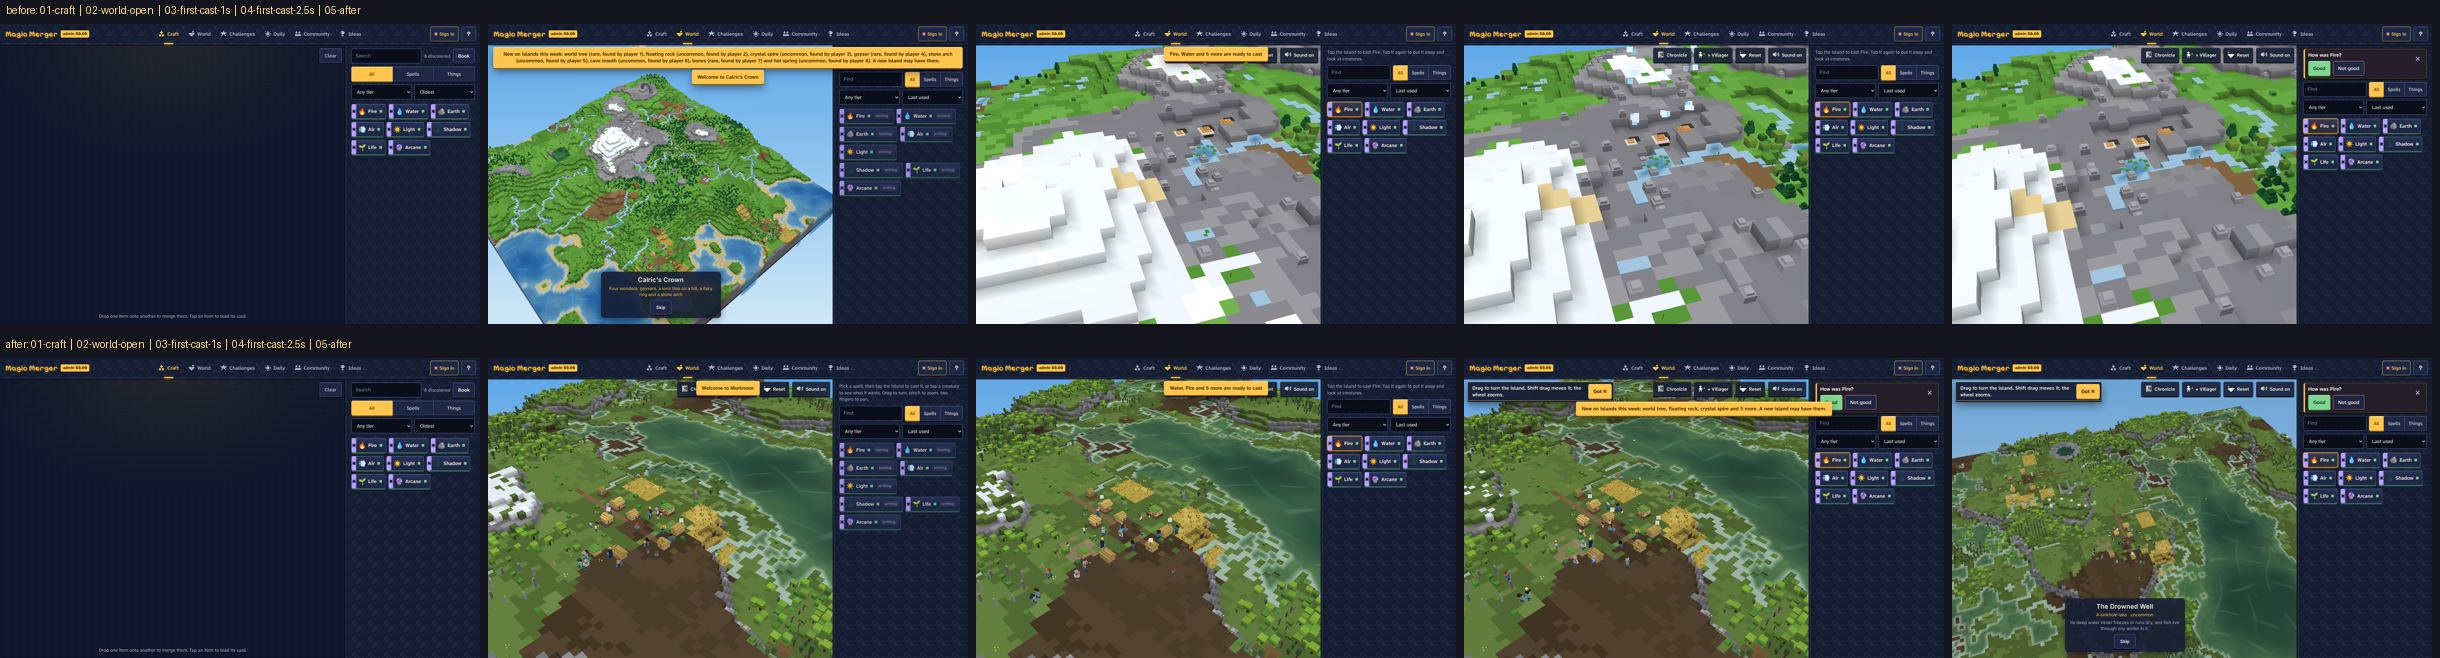
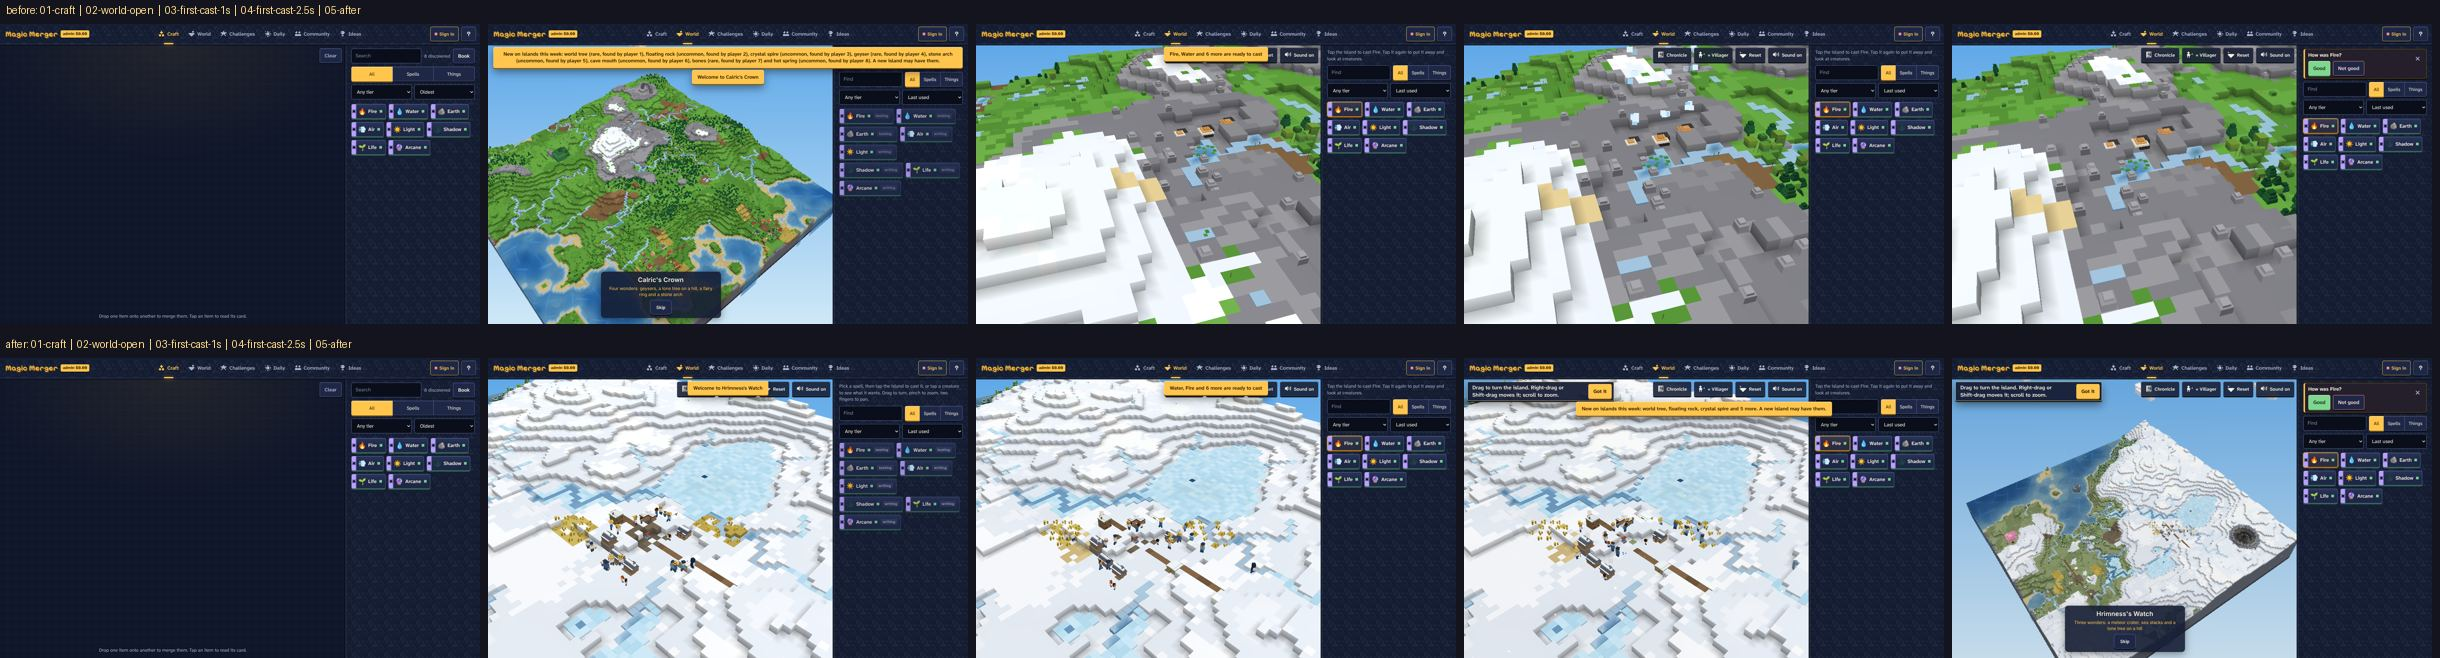
Review fixes: the tour returns facing the same way, a tap on its card ends it; the hint below the World's buttons, read once, closes itself; Craft folds under 10 items
Found by: ai (playtester and ux-designer agents)

Claude-Session: https://claude.ai/code/session_01NxvtAn6domQt8UtxktyKik

Changed region(s): [[0.5918, 0.5775, 0.9656, 1.0], [0.3738, 0.5775, 0.5607, 1.0], [0.1869, 0.5775, 0.3426, 1.0]]

diff --git a/src/firstcast.ts b/src/firstcast.ts
@@ -49,14 +49,19 @@ function inSight(frame: HTMLIFrameElement, x: number, y: number): boolean {
 const HINT_KEY = "magic-merger.hint.move";
 const HINT_AFTER_MS = 3000;
 const NEWS_AFTER_MS = 4500;
+// Shown this long, the hint counts as read; it closes itself a little later.
+const HINT_READ_MS = 8000;
+const HINT_CLOSE_MS = 12000;
 
 // What waits for the first cast of this visit to land and be held for three
-// seconds: one line on how to move the island (shown once per browser), then
-// what the World had to say (the week's new wonders).
+// seconds: one line on how to move the island (until it was read once in
+// this browser), then what the World had to say (the week's new wonders).
 export class FirstCastGuide {
   private landed = false;
   private waiting: (() => void)[] = [];
   private hint: HTMLElement | null = null;
+  private timers: number[] = [];
+  private place: (() => void) | null = null;
 
   afterFirstCast(say: () => void): void {
     if (this.landed) say();
@@ -73,30 +78,63 @@ export class FirstCastGuide {
   }
 
   private showHint(stage: HTMLElement): void {
-    if (readSeen() || !stage.isConnected || !stage.getClientRects().length) return;
-    writeSeen();
+    if (this.hint || readSeen() || !stage.isConnected || !stage.getClientRects().length) return;
     const touch = window.matchMedia?.("(pointer: coarse)").matches ?? false;
     const box = document.createElement("div");
     box.className = "move-hint";
     box.setAttribute("role", "status");
     const text = document.createElement("p");
     text.textContent = touch
-      ? "One finger turns the island. Two fingers move it; pinch to zoom."
-      : "Drag to turn the island. Shift drag moves it; the wheel zooms.";
+      ? "Drag to turn the island. Drag with two fingers to move it; pinch to zoom."
+      : "Drag to turn the island. Right\u2011drag or Shift\u2011drag moves it; scroll to zoom.";
     const ok = document.createElement("button");
     ok.type = "button";
     ok.textContent = "Got it";
-    ok.addEventListener("click", () => this.hideHint());
+    ok.addEventListener("click", () => {
+      writeSeen();
+      this.hideHint();
+    });
     box.append(text, ok);
     stage.append(box);
     this.hint = box;
-    setToastFloor("hint", box.getBoundingClientRect().bottom);
+    // Below the World's buttons where they make a row along the top of the
+    // island (a laptop with a mouse); beside the rail on a phone. Measured
+    // again when the window changes, as when a Fold opens.
+    this.place = () => {
+      const top = stage.getBoundingClientRect().top;
+      box.style.top = "";
+      const hint = box.getBoundingClientRect();
+      let below = 0;
+      for (const b of document.querySelectorAll<HTMLElement>(".world-tools button, .world-tools select")) {
+        const r = b.getBoundingClientRect();
+        if (r.width && r.top < hint.bottom && r.bottom > hint.top && r.left < hint.right && r.right > hint.left) below = Math.max(below, r.bottom);
+      }
+      if (below) box.style.top = `${Math.round(below - top + 8)}px`;
+      setToastFloor("hint", box.getBoundingClientRect().bottom);
+    };
+    this.place();
+    window.addEventListener("resize", this.place);
+    this.timers.push(
+      window.setTimeout(writeSeen, HINT_READ_MS),
+      window.setTimeout(() => this.hideHint(), HINT_CLOSE_MS),
+    );
   }
 
+  // Closed by the player, by the inspect card or by leaving the World. Taken
+  // away before it could be read, it comes back after the next cast.
   hideHint(): void {
-    this.hint?.remove();
+    if (!this.hint) return;
+    for (const t of this.timers.splice(0)) clearTimeout(t);
+    if (this.place) window.removeEventListener("resize", this.place);
+    this.place = null;
+    this.hint.remove();
     this.hint = null;
     setToastFloor("hint", 0);
+  }
+
+  // A cast after the hint was taken away unread brings it back once.
+  again(stage: HTMLElement): void {
+    if (this.landed && !this.hint && !readSeen()) window.setTimeout(() => this.showHint(stage), HINT_AFTER_MS);
   }
 }
 

diff --git a/src/craft.ts b/src/craft.ts
@@ -43,8 +43,8 @@ export function chipElement(element: GameElement, tag: "div" | "button" = "div")
 const sound = new CraftSound();
 
 // Below this many items the Craft list folds its search and filters away on
-// a narrow screen (2026-11-11).
-const FEW_ITEMS = 20;
+// a narrow screen (2026-11-11): 10 fit at 344 wide without them.
+const FEW_ITEMS = 10;
 
 // The Craft tab: a board where chips are dropped onto each other, and the
 // inventory of everything discovered so far.
@@ -53,6 +53,7 @@ export class Craft {
   // Chips waiting for a merge answer cannot be touched.
   private busy = new Set<number>();
   private hovered: HTMLElement | null = null;
+  private filtersUsed = false;
   private tappedChip: number | null = null;
   // Called when this player finds something they did not have yet.
   // writing: the Worker started its program at the merge (4.2).
@@ -114,10 +115,11 @@ export class Craft {
       (d) => elementKey(d.element.name),
     );
     this.count.textContent = shown.length === all.length ? `${all.length} discovered` : `${shown.length} of ${all.length}`;
-    // Under 20 items, nothing to search: on a narrow screen the search and
-    // the filters fold away (firstcast.css), unless one is in use.
-    const plain = !this.search.value && this.filters.state.kind === "all" && this.filters.state.tier === "any";
-    this.inventory.classList.toggle("inventory-few", all.length < FEW_ITEMS && plain);
+    // Under 10 items, nothing to search: on a narrow screen the search and
+    // the filters fold away (firstcast.css), unless one is or was in use this
+    // visit (clearing a filter must not pull the row from under the finger).
+    if (this.search.value || this.filters.state.kind !== "all" || this.filters.state.tier !== "any") this.filtersUsed = true;
+    this.inventory.classList.toggle("inventory-few", all.length < FEW_ITEMS && !this.filtersUsed);
 
     const fragment = document.createDocumentFragment();
     for (const { element } of shown) {

diff --git a/src/sim/firstlook.ts b/src/sim/firstlook.ts
@@ -31,6 +31,8 @@ export interface Pose {
   ty: number;
   dist: number;
   phi: number;
+  // The way the camera faces; a pose without it keeps the current one.
+  theta?: number;
 }
 
 // Where play starts on a new island: over a village, looking down at it.
@@ -64,11 +66,15 @@ export function firstLook(engine: Engine, card: HTMLElement, reducedMotion: bool
     clearInterval(spin);
     card.hidden = true;
     engine.canvas.removeEventListener("pointerdown", stop);
-    if (!reducedMotion) orbit.flyTo(end.tx, end.ty, end.dist, end.phi, 1.6);
+    card.removeEventListener("pointerdown", stop);
+    if (!reducedMotion) orbit.flyTo(end.tx, end.ty, end.dist, end.phi, 1.6, end.theta);
     onEnd?.();
   }
   const intro = `${COUNT[Math.min(5, wonders.length)][0].toUpperCase()}${COUNT[Math.min(5, wonders.length)].slice(1)}: ${listOf(wonders.map((w) => w.label))}`;
   engine.canvas.addEventListener("pointerdown", stop);
+  // The card sits over the middle of a narrow island: a tap on it ends the
+  // tour too, as a tap anywhere else does (playtest, 2026-11-11).
+  card.addEventListener("pointerdown", stop);
   if (reducedMotion) {
     show(name, intro, "");
     timer = window.setTimeout(stop, 7000);

diff --git a/src/firstcast.css b/src/firstcast.css
@@ -26,7 +26,7 @@
 
 .move-hint p {
   margin: 0;
-  font: 600 15px/1.35 var(--font-body);
+  font: 600 16px/1.35 var(--font-body);
 }
 
 .move-hint button {
@@ -56,8 +56,9 @@
   }
 }
 
-/* Craft below 700 px: with under 20 items the search and the filters only
-   take room from the list (177 px at 344 wide, 6 of the 8 forces in sight). */
+/* Craft below 700 px: with under 10 items the search and the filters only
+   take room from the list (177 px at 344 wide, 6 of the 8 forces in sight;
+   10 items fit without them). */
 @media (max-width: 699px) {
   .inventory.inventory-few #search,
   .inventory.inventory-few .inventory-filters {

diff --git a/src/worldhost.ts b/src/worldhost.ts
@@ -589,7 +589,10 @@ export class WorldHost {
         timeline.step(msg.key, this.store.get(msg.key)!.element.name, "cast");
         this.castInAttempt.push(msg.key);
         markUsed(msg.key);
-        if (!this.challenge) this.guide.cast(this.el.stage);
+        if (!this.challenge) {
+          this.guide.again(this.el.stage);
+          this.guide.cast(this.el.stage);
+        }
         void this.afterCast(msg.key);
         // In a grid the bar covers the island: fold it once a spell is used,
         // unless the player sized it by hand (the grip, below).

diff --git a/src/sim/frame.ts b/src/sim/frame.ts
@@ -284,7 +284,7 @@ function startTour(on: Engine): void {
     on,
     lookCard,
     window.matchMedia?.("(prefers-reduced-motion: reduce)").matches ?? false,
-    { tx: o.tx, ty: o.ty, dist: o.dist, phi: o.phi },
+    { tx: o.tx, ty: o.ty, dist: o.dist, phi: o.phi, theta: o.theta },
     () => {
       touring = false;
     },
